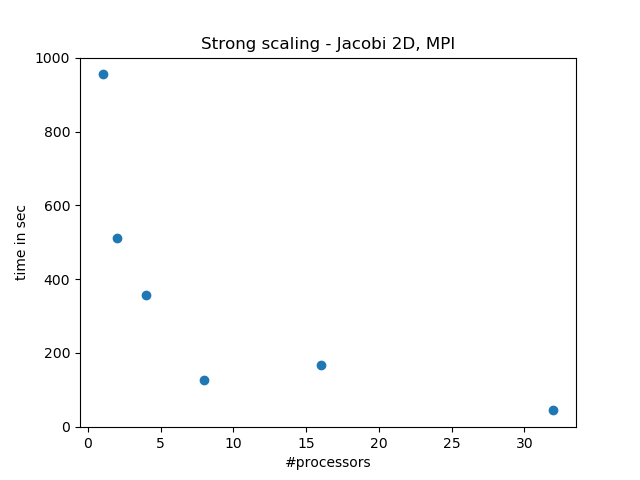
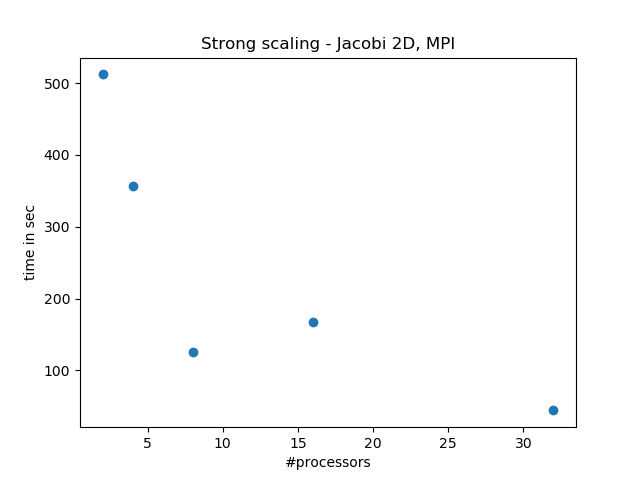
plots

diff --git a/plotting/plot_strong_time.py b/plotting/plot_strong_time.py
@@ -26,7 +26,7 @@ print(df)
 df['time'].plot(
     kind='line',
     ## update title
-    title='Strong scaling - LU with PRP, OpenMP',
+    title='Strong scaling - Jacobi 2D, MPI',
     logy=False,
     ylabel="time in sec",
     logx=False,
